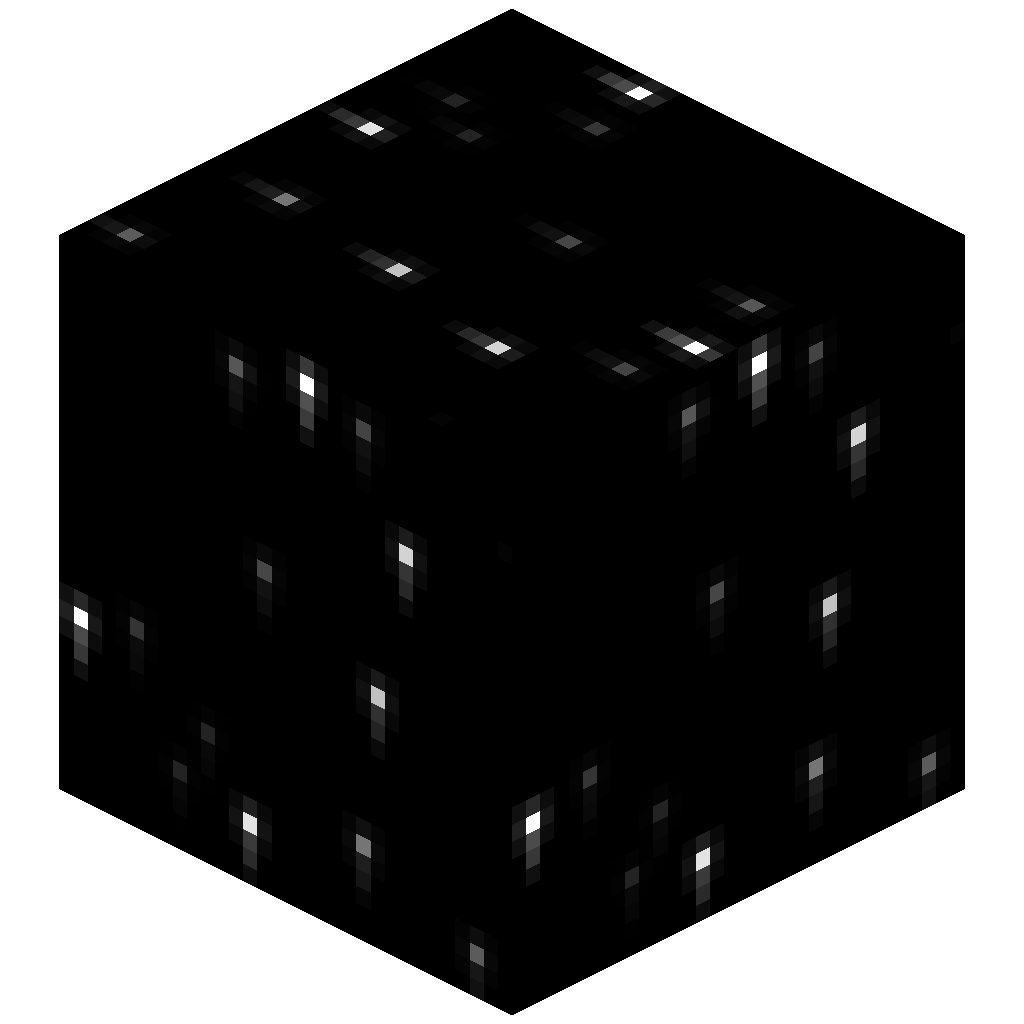
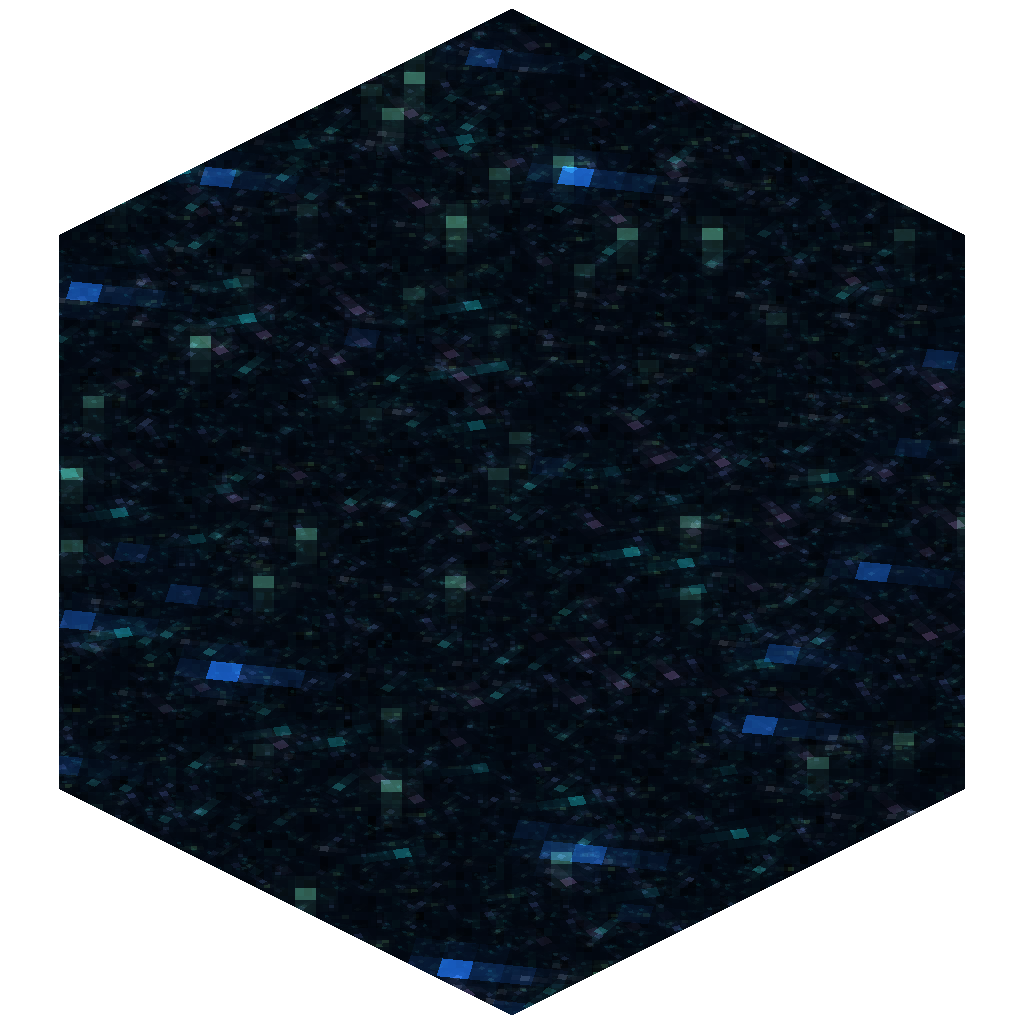
end portal shader

Changed region(s): [[0.0312, 0.0, 0.9688, 1.0]]

diff --git a/blockmodel-utils.js b/blockmodel-utils.js
@@ -335,6 +335,13 @@ export async function parseBlockstate(assets, blockstate, data = {}) {
         "#FC3100"
       ][data.power ?? 0]]
     }
+
+    if (item === "end_portal" || item == "end_gateway") {
+      model.shader = {
+        type: "end_portal",
+        layers: item === "end_portal" ? 15 : 16
+      }
+    }
   }
 
   return models
@@ -724,6 +731,17 @@ async function resolveSpecialModel(assets, data) {
   }
 }
 
+async function makeThreeTexture(img) {
+  const texture = await loadTexture(img)
+  texture.colorSpace = THREE.SRGBColorSpace
+  texture.magFilter = THREE.NearestFilter
+  texture.minFilter = THREE.NearestFilter
+  texture.wrapS = THREE.RepeatWrapping
+  texture.wrapT = THREE.RepeatWrapping
+  texture.needsUpdate = true
+  return texture
+}
+
 export async function loadModel(scene, assets, model, display = "gui") {
   const textureCache = new Map()
 
@@ -732,7 +750,7 @@ export async function loadModel(scene, assets, model, display = "gui") {
     return `${assets}/assets/${namespace}/textures/${item}.png`
   }
 
-  async function loadTextureAsync(id, tint) {
+  async function loadModelTexture(id, tint) {
     if (textureCache.has(id)) return textureCache.get(id)
 
     let image
@@ -759,11 +777,7 @@ export async function loadModel(scene, assets, model, display = "gui") {
       image = canvas
     }
 
-    const texture = await loadTexture(image)
-    texture.colorSpace = THREE.SRGBColorSpace
-    texture.magFilter = THREE.NearestFilter
-    texture.minFilter = THREE.NearestFilter
-    texture.needsUpdate = true
+    const texture = await makeThreeTexture(image)
 
     textureCache.set(id, texture)
     return texture
@@ -1113,14 +1127,7 @@ export async function loadModel(scene, assets, model, display = "gui") {
         texRef = model.textures?.[texRef.slice(1)]
       }
 
-      const map = await loadTextureAsync(texRef, tint)
-
-      materials.push(new THREE.MeshBasicMaterial({
-        map,
-        vertexColors: true,
-        transparent: true,
-        alphaTest: 0.01
-      }))
+      materials.push(await makeMaterial(await loadModelTexture(texRef, tint), assets, model.shader))
     }
 
     const mesh = new THREE.Mesh(geometry, materials)
@@ -1182,4 +1189,111 @@ export async function loadModel(scene, assets, model, display = "gui") {
     }
   }
   scene.add(rootGroup)
+}
+
+async function makeMaterial(texture, assets, shader) {
+  if (shader?.type === "end_portal") {
+    let skyPath = `${assets}/assets/minecraft/textures/environment/end_sky.png`
+    if (!await fileExists(skyPath)) {
+      skyPath = `${__dirname}/defaults/end_sky.png`
+    }
+    return new THREE.ShaderMaterial({
+      uniforms: {
+        GameTime: {
+          value: 0.727
+        },
+        Sampler0: {
+          value: await makeThreeTexture(await loadImage(skyPath))
+        },
+        Sampler1: {
+          value: texture
+        }
+      },
+      vertexShader: `
+        varying vec4 texProj0;
+
+        vec4 projection_from_position(vec4 position) {
+          vec4 projection = position * 0.5;
+          projection.xy = vec2(projection.x + projection.w, projection.y + projection.w);
+          projection.zw = position.zw;
+          return projection;
+        }
+
+        void main() {
+          gl_Position = projectionMatrix * modelViewMatrix * vec4(position, 1.0);
+
+          texProj0 = projection_from_position(gl_Position);
+        }
+      `,
+      fragmentShader: `
+        varying vec4 texProj0;
+
+        uniform float GameTime;
+        uniform sampler2D Sampler0;
+        uniform sampler2D Sampler1;
+
+        mat2 mat2_rotate_z(float radians) {
+          return mat2(
+            cos(radians), -sin(radians),
+            sin(radians), cos(radians)
+          );
+        }
+
+        vec3 getColor(int i) {
+          if (i == 0) return vec3(0.022087, 0.098399, 0.110818);
+          if (i == 1) return vec3(0.011892, 0.095924, 0.089485);
+          if (i == 2) return vec3(0.027636, 0.101689, 0.100326);
+          if (i == 3) return vec3(0.046564, 0.109883, 0.114838);
+          if (i == 4) return vec3(0.064901, 0.117696, 0.097189);
+          if (i == 5) return vec3(0.063761, 0.086895, 0.123646);
+          if (i == 6) return vec3(0.084817, 0.111994, 0.166380);
+          if (i == 7) return vec3(0.097489, 0.154120, 0.091064);
+          if (i == 8) return vec3(0.106152, 0.131144, 0.195191);
+          if (i == 9) return vec3(0.097721, 0.110188, 0.187229);
+          if (i == 10) return vec3(0.133516, 0.138278, 0.148582);
+          if (i == 11) return vec3(0.070006, 0.243332, 0.235792);
+          if (i == 12) return vec3(0.196766, 0.142899, 0.214696);
+          if (i == 13) return vec3(0.047281, 0.315338, 0.321970);
+          if (i == 14) return vec3(0.204675, 0.390010, 0.302066);
+          return vec3(0.080955, 0.314821, 0.661491);
+        }
+
+        const mat4 SCALE_TRANSLATE = mat4(
+          0.5, 0.0, 0.0, 0.25,
+          0.0, 0.5, 0.0, 0.25,
+          0.0, 0.0, 1.0, 0.0,
+          0.0, 0.0, 0.0, 1.0
+        );
+
+        mat4 end_portal_layer(float layer) {
+          mat4 translate = mat4(
+            0.25, 0.0, 0.0, 17.0 / layer,
+            0.0, 0.25, 0.0, (2.0 + layer / 1.5) * (GameTime * 1.5),
+            0.0, 0.0, 1.0, 0.0,
+            0.0, 0.0, 0.0, 1.0
+          );
+
+          mat2 rotate = mat2_rotate_z(radians((layer * layer * 4321.0 + layer * 9.0) * 2.0));
+
+          mat2 scale = mat2((4.5 - layer / 4.0) * 2.0);
+
+          return mat4(scale * rotate) * translate * SCALE_TRANSLATE;
+        }
+
+        void main() {
+          vec3 color = texture2DProj(Sampler0, texProj0).rgb * getColor(0);
+          for (int i = 0; i < ${shader.layers ?? 15}; i++) {
+            color += texture2DProj(Sampler1, texProj0 * vec4(1.0, 16.0 / 9.0, 1.0, 1.0) * end_portal_layer(float(i + 1))).rgb * getColor(i);
+          }
+          gl_FragColor = vec4(color, 1.0);
+        }
+      `
+    })
+  }
+  return new THREE.MeshBasicMaterial({
+    map: texture,
+    vertexColors: true,
+    transparent: true,
+    alphaTest: 0.01
+  })
 }
